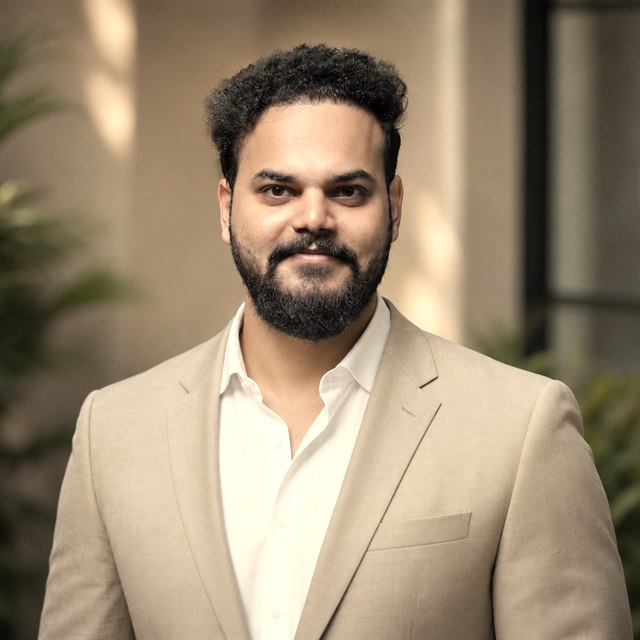
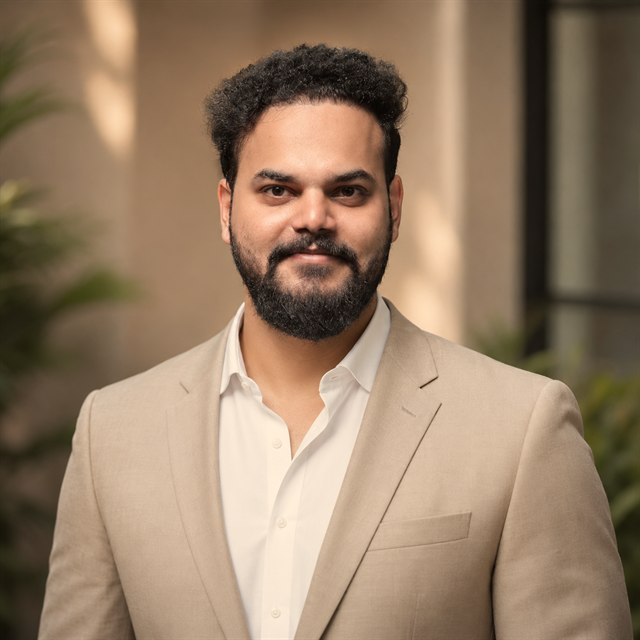
Designer crit: reposition/shrink stag, calm camera; regrade & re-treat photo; polish

diff --git a/style.css b/style.css
@@ -1,7 +1,7 @@
 /* ============================================================
    Adnan Abdul Salam — Portfolio
-   Aesthetic: refined dark "tech control room" — deep ink black,
-   luminous mint accent, characterful Clash Display headings.
+   Aesthetic: cinematic warm — deep espresso-brown background, cream text,
+   golden accent, characterful Clash Display headings.
    ============================================================ */
 
 :root {
@@ -11,7 +11,7 @@
   --line:      rgba(240,224,190,.10);
   --text:      #f2e7cd;       /* warm cream */
   --muted:     #c2b291;       /* taupe (lightened for readability) */
-  --faint:     #9c8a6a;       /* meets WCAG AA on the dark bg */
+  --faint:     #ab9a78;       /* meets WCAG AA on the dark bg (safer margin) */
   --accent:    #e8b53e;       /* bold golden-yellow */
   --accent-2:  #c98a3a;       /* warm amber, used sparingly */
   --glow:      rgba(232,181,62,.35);
@@ -120,6 +120,11 @@ h1, h2, h3 { font-family: "Clash Display", sans-serif; font-weight: 600; line-he
 .hero__role { font-size: clamp(1.1rem, 2.4vw, 1.6rem); color: var(--text); font-weight: 500; margin-bottom: 18px; }
 .hero__sub { max-width: 56ch; color: var(--muted); font-size: 1.02rem; margin-bottom: 38px; }
 .hero__actions { display: flex; gap: 16px; flex-wrap: wrap; }
+/* keep hero copy in a left column (split-hero balance) + choreograph the reveal */
+.hero__role, .hero__sub { max-width: 600px; }
+.hero__role.reveal { transition-delay: .28s; }
+.hero__sub.reveal { transition-delay: .40s; }
+.hero__actions.reveal { transition-delay: .52s; }
 
 .btn {
   display: inline-flex; align-items: center; gap: 8px;
@@ -151,17 +156,27 @@ h1, h2, h3 { font-family: "Clash Display", sans-serif; font-weight: 600; line-he
 
 /* ---------- ABOUT ---------- */
 .about__grid { display: grid; grid-template-columns: minmax(220px, 300px) 1fr; gap: clamp(28px, 4vw, 60px); align-items: start; }
-.about__portrait { position: relative; }
+.about__portrait { position: relative; isolation: isolate; }
 .about__portrait img {
-  width: 100%; aspect-ratio: 1; object-fit: cover; display: block;
-  border-radius: 20px;
-  border: 1px solid rgba(232,181,62,.35);
+  width: 100%; aspect-ratio: 1; object-fit: cover; object-position: 50% 28%; display: block;
+  border-radius: 16px;
+  border: 1px solid rgba(232,181,62,.22);
   box-shadow: 0 20px 55px rgba(0,0,0,.55);
+  filter: saturate(0.92) contrast(1.03) brightness(0.97);
   transition: transform .45s var(--ease), box-shadow .45s var(--ease);
 }
+/* ::before = espresso color wash to neutralise the cool grey-green background (hue work) */
+.about__portrait::before {
+  content: ""; position: absolute; inset: 0; border-radius: 16px; pointer-events: none;
+  z-index: 1; mix-blend-mode: color; opacity: .22;
+  background: linear-gradient(160deg, #3a2c16 0%, #241803 100%);
+}
+/* ::after = vignette to seat the figure into the dark page */
 .about__portrait::after {
-  content: ""; position: absolute; inset: 0; border-radius: 20px; pointer-events: none;
-  background: linear-gradient(180deg, rgba(232,181,62,.06) 0%, transparent 35%, rgba(8,5,3,.45) 100%);
+  content: ""; position: absolute; inset: 0; border-radius: 16px; pointer-events: none; z-index: 2;
+  background:
+    linear-gradient(180deg, transparent 45%, rgba(8,5,3,.55) 100%),
+    radial-gradient(120% 90% at 50% 30%, transparent 55%, rgba(8,5,3,.40) 100%);
 }
 .about__portrait:hover img { transform: translateY(-5px); box-shadow: 0 26px 70px rgba(232,181,62,.16); }
 .about__text { display: flex; flex-direction: column; gap: 18px; }

diff --git a/script.js b/script.js
@@ -25,7 +25,7 @@
   const GOLD = new THREE.Color("#e8b53e");
   const mat = new THREE.MeshBasicMaterial({ color: GOLD });
 
-  const S = 0.78, CY = 1.1, R = 0.04; // scale, vertical centre, stroke radius
+  const S = 0.66, CY = 1.1, R = 0.04; // scale, vertical centre, stroke radius
   const group = new THREE.Group();
   scene.add(group);
 
@@ -132,8 +132,8 @@
   });
 
   // sit to the right and lower so the antlers clear the headline
-  const targetOffsetX = () => (window.innerWidth > 860 ? 4.0 : 0);
-  const BASE_Y = -1.25;
+  const targetOffsetX = () => (window.innerWidth > 1200 ? 5.6 : window.innerWidth > 860 ? 4.6 : 0);
+  const BASE_Y = -1.05;
 
   const clock = new THREE.Clock();
   function animate() {
@@ -144,16 +144,16 @@
 
     const sway = reduce ? 0 : 1;
     // keep the delightful mouse parallax; calm the idle motion
-    group.rotation.y = mouse.x * 0.7 + Math.sin(t * 0.35) * 0.18 * sway;
-    group.rotation.x = -mouse.y * 0.26 + Math.sin(t * 0.5) * 0.04 * sway;
+    group.rotation.y = mouse.x * 0.5 + Math.sin(t * 0.35) * 0.12 * sway;
+    group.rotation.x = -mouse.y * 0.22 + Math.sin(t * 0.5) * 0.04 * sway;
     group.position.x += (targetOffsetX() - group.position.x) * 0.05;
     group.position.y = BASE_Y + Math.sin(t * 0.6) * 0.08 * sway;
     group.scale.setScalar(1 + Math.sin(t * 0.9) * 0.014);
 
     field.rotation.y = t * 0.02 * sway;
 
-    camera.position.x += (mouse.x * 0.4 - camera.position.x) * 0.05;
-    camera.position.y += (-mouse.y * 0.4 - camera.position.y) * 0.05;
+    camera.position.x += (mouse.x * 0.12 - camera.position.x) * 0.05;
+    camera.position.y += (-mouse.y * 0.25 - camera.position.y) * 0.05;
     camera.lookAt(scene.position);
 
     renderer.render(scene, camera);